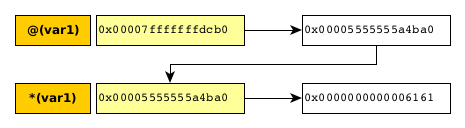
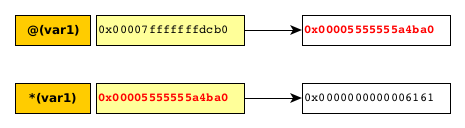
wip

Changed region(s): [[0.6323, 0.1875, 0.9333, 0.2812], [0.2108, 0.7188, 0.5118, 0.8125], [0.3312, 0.5, 0.8129, 0.6562]]

diff --git a/memory-management/src/main.rs b/memory-management/src/main.rs
@@ -1,6 +1,8 @@
 fn main() {
-    let var1: u32 = 10;
+    let var1 = 10;
     println!("var1: \"{}\" ({:p})", var1, &var1);
+    println!("Pause");
+    let var2 = var1;
+    println!("var2: \"{}\" ({:p})", var2, &var2);
     println!("The end");
 }
-

diff --git a/doc/variables.md b/doc/variables.md
@@ -2,7 +2,7 @@
 
 ## Memory mapping
 
-### Stack storage
+### Stack storage (scalar value)
 
 Let's consider this Rust code:
 
@@ -86,6 +86,123 @@ In summary:
 `&var1` = `0x00007fffffffdcb0` -> `0x00005555555a4ba0` -> "`aa`"
 
 ![](images/rust-mem1.png)
+
+## Moving variable
+
+### Stack storage (scalar value)
+
+Let's consider this Rust code:
+
+```bash
+$ cat -n src/main.rs
+1	fn main() {
+2	    let var1 = 10;
+3	    println!("var1: \"{}\" ({:p})", var1, &var1);
+4	    println!("Pause");
+5	    let var2 = var1;
+6	    println!("var2: \"{}\" ({:p})", var2, &var2);
+7	    println!("The end");
+8	}
+```
+
+We use GDB to look at the process memory. We set breakpoints at lines 4 and 7, and then we look at the content of the memory.
+
+```bash
+$ gdb target/debug/memory-management
+...
+(gdb) b 4
+Breakpoint 1 at 0x8b42: file src/main.rs, line 4.
+(gdb) b 7
+Breakpoint 2 at 0x8c6f: file src/main.rs, line 7.
+(gdb) r
+Starting program: /home/denis/Documents/github/rust-playground/memory-management/target/debug/memory-management
+[Thread debugging using libthread_db enabled]
+Using host libthread_db library "/lib/x86_64-linux-gnu/libthread_db.so.1".
+var1: "10" (0x7fffffffdbcc)
+
+Breakpoint 1, memory_management::main () at src/main.rs:4
+4	    println!("Pause");
+(gdb) x/xw 0x7fffffffdbcc
+0x7fffffffdbcc:	0x0000000a
+(gdb) c
+Continuing.
+Pause
+var2: "10" (0x7fffffffdc6c)
+
+Breakpoint 2, memory_management::main () at src/main.rs:7
+7	    println!("The end");
+(gdb) x/xw 0x7fffffffdc6c
+0x7fffffffdc6c:	0x0000000a
+(gdb)
+```
+
+We can see that when `var2` takes ownership of `var1`'s value (`"aa"`), the value's address (`0x00005555555a4ba0`) is assigned to `var2`.
+
+![](images/rust-mem4.png)
+
+> Please note that `var1` is immutable. The immutability is enforced at compile time (not at runtime).  
+
+### Heap allocation
+
+Let's consider this Rust code:
+
+```bash
+$ cat -n src/main.rs
+1	fn main() {
+2	    let var1 = String::from("aa");
+3	    println!("var1: \"{}\" ({:p})", var1, &var1);
+4	    println!("Pause");
+5	    let var2 = var1;
+6	    println!("var2: \"{}\" ({:p})", var2, &var2);
+7	    println!("The end");
+8	}
+```
+
+We use GDB to look at the process memory. We set breakpoints at lines 4 and 7, and then we look at the content of the memory.
+
+```bash
+$ gdb target/debug/memory-management
+...
+(gdb) b 4
+Breakpoint 1 at 0xa479: file src/main.rs, line 4.
+(gdb) b 7
+Breakpoint 2 at 0xa604: file src/main.rs, line 7.
+(gdb) r
+Starting program: /home/denis/Documents/github/rust-playground/memory-management/target/debug/memory-management 
+[Thread debugging using libthread_db enabled]
+Using host libthread_db library "/lib/x86_64-linux-gnu/libthread_db.so.1".
+var1: "aa" (0x7fffffffdb90)
+
+Breakpoint 1, memory_management::main () at src/main.rs:4
+4       println!("Pause");
+(gdb) x/xg 0x7fffffffdb90
+0x7fffffffdb90: 0x00005555555a4ba0
+(gdb) x/xg 0x00005555555a4ba0
+0x5555555a4ba0: 0x0000000000006161
+(gdb) c
+Continuing.
+Pause
+var2: "aa" (0x7fffffffdc40)
+
+Breakpoint 2, memory_management::main () at src/main.rs:7
+7       println!("The end");
+(gdb) x/xg 0x7fffffffdc40
+0x7fffffffdc40: 0x00005555555a4ba0
+(gdb) x/xg 0x00005555555a4ba0
+0x5555555a4ba0: 0x0000000000006161
+(gdb) x/xg 0x7fffffffdb90
+0x7fffffffdb90: 0x00005555555a4ba0
+(gdb) print var1
+$1 = alloc::string::String {vec: alloc::vec::Vec<u8, alloc::alloc::Global> {buf: alloc::raw_vec::RawVec<u8, alloc::alloc::Global> {ptr: core::ptr::unique::Unique<u8> {pointer: 0x5555555a4ba0, _marker: core::marker::PhantomData<u8>}, cap: 2, alloc: alloc::alloc::Global}, len: 2}}
+(gdb) print var2
+$2 = alloc::string::String {vec: alloc::vec::Vec<u8, alloc::alloc::Global> {buf: alloc::raw_vec::RawVec<u8, alloc::alloc::Global> {ptr: core::ptr::unique::Unique<u8> {pointer: 0x5555555a4ba0, _marker: core::marker::PhantomData<u8>}, cap: 2, alloc: alloc::alloc::Global}, len: 2}}
+```
+
+We can see that when `var2` takes ownership of `var1`'s value (`"aa"`), the value's address (`0x00005555555a4ba0`) is assigned to `var2`. 
+
+![](images/rust-mem3.png)
+
+> Please note that `var1` is immutable. The immutability is enforced at compile time (not at runtime).
 
 ## Immutability vs constant
 

diff --git a/doc/installation-linux.md b/doc/installation-linux.md
@@ -1,3 +1,4 @@
+
 #  Installation notes for Linux
 
 The installation is straightforward : 
